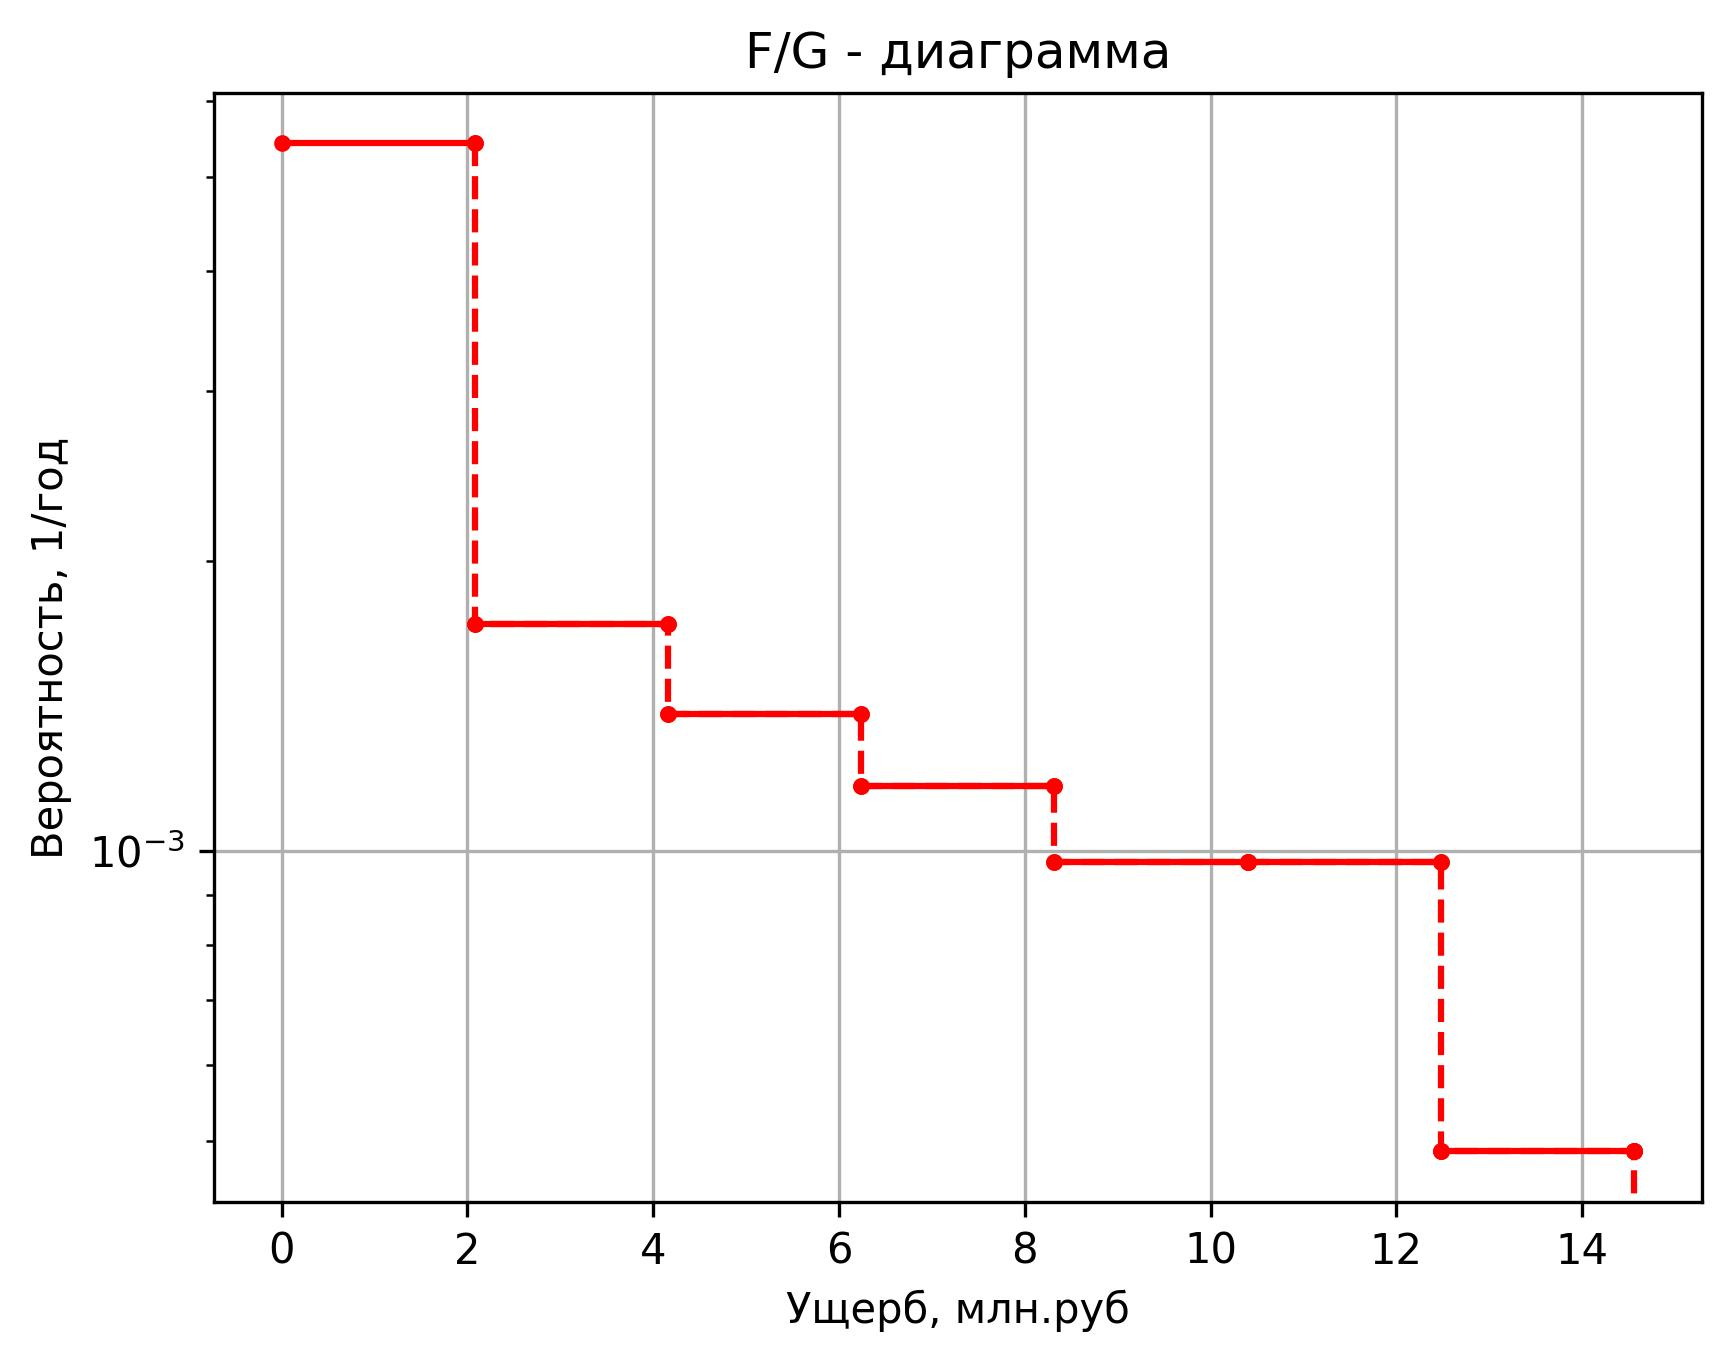
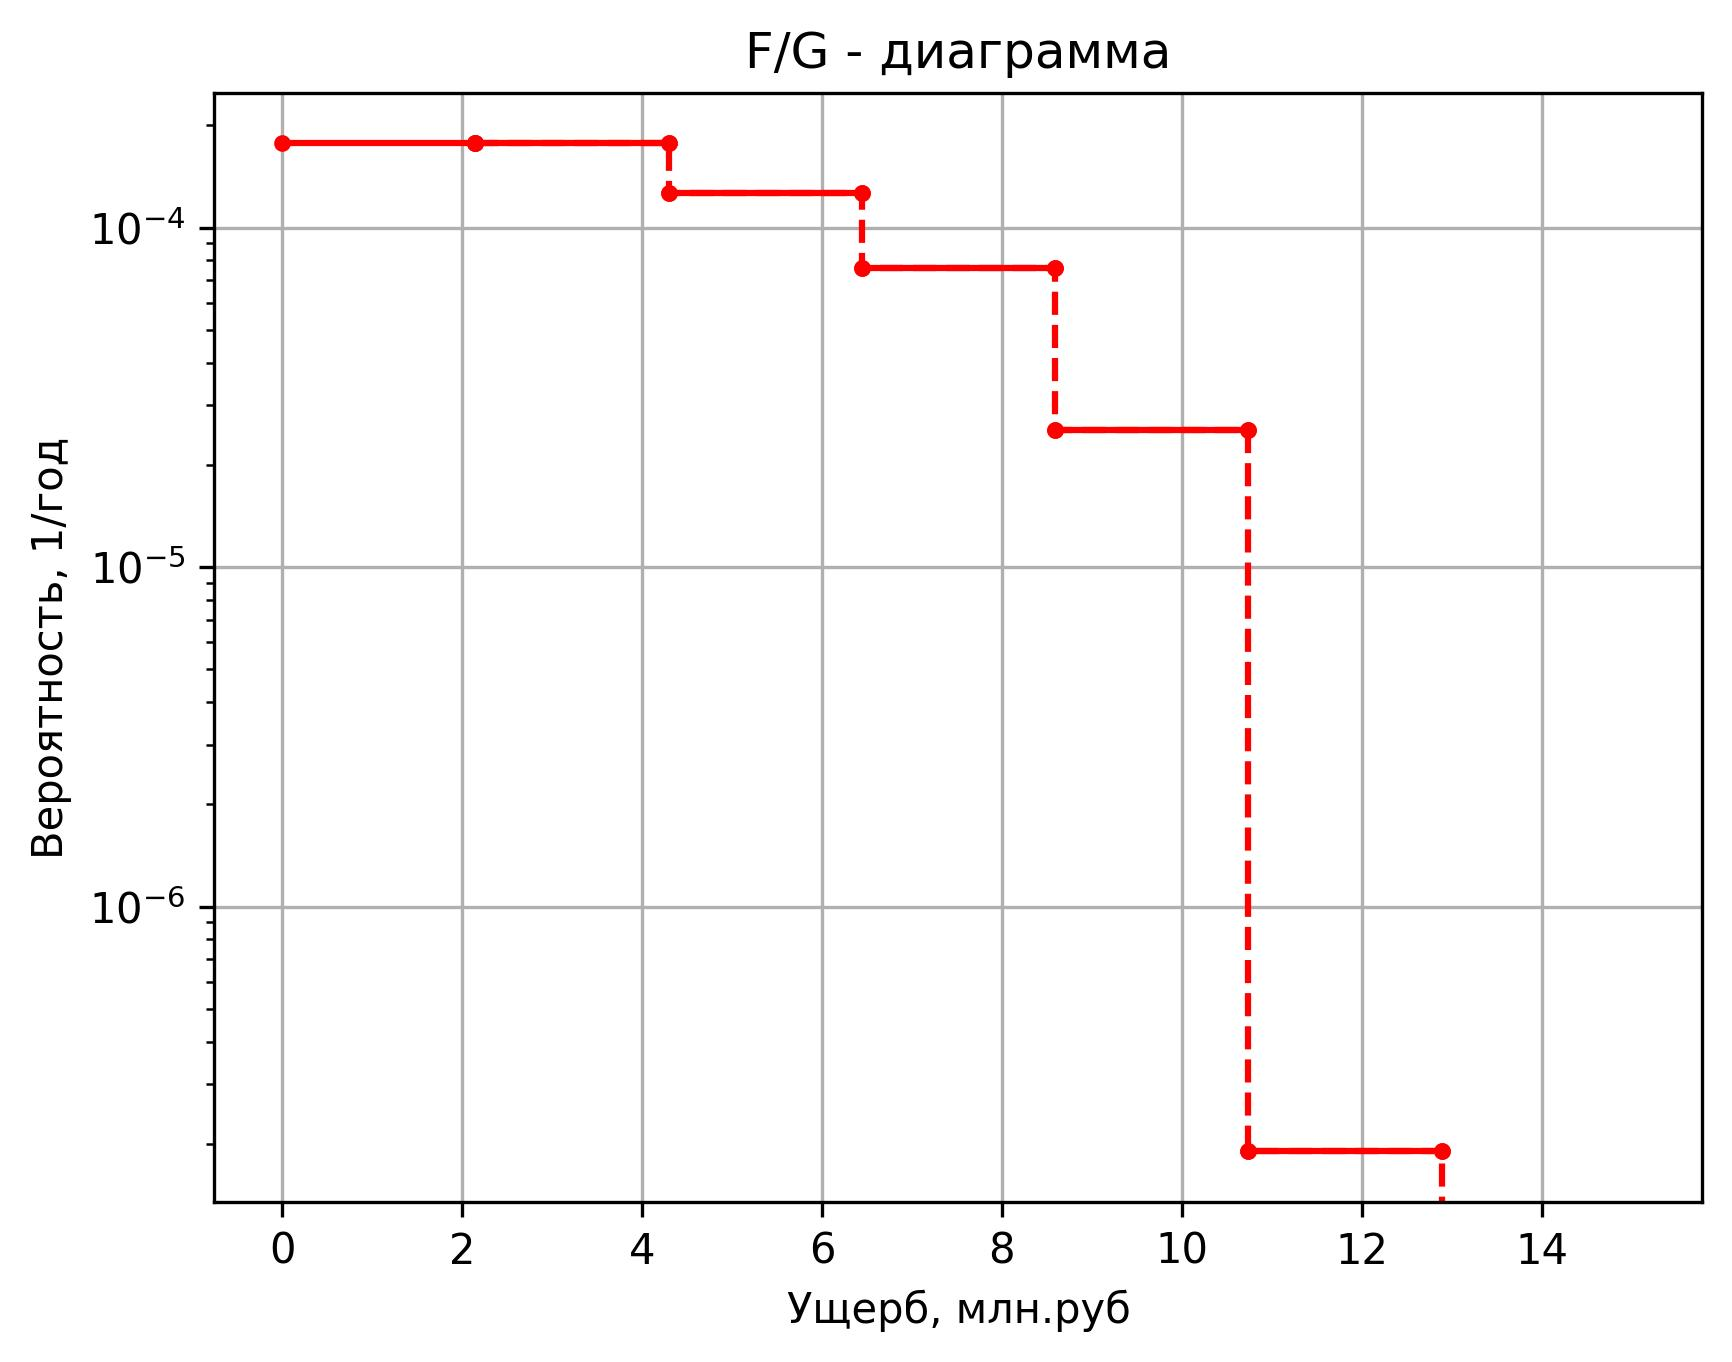
Шаблоны Оренбургнефть

diff --git a/config.py b/config.py
@@ -1,11 +1,12 @@
 import time
 
-DEGREE_OF_CLUTTER = 4 #степень загроможденности
+DEGREE_OF_CLUTTER = 3 #степень загроможденности
 # PATH_ = 'BASHNEFT/'
 # PATH_ = 'BASHNEFT_state_with_line/'
-PATH_ = 'BASHNEFT_with_line/'
+# PATH_ = 'BASHNEFT_with_line/'
 # PATH_ = 'SHESHMAOIL/'
 # PATH_ = 'TATNEFT/'
 # PATH_ = 'NPF/'
 # PATH_ = 'VECTORSTROY/'
+PATH_ = 'ORENBURGNEFT_state/'
 INIQ_TEXT = str(int(time.time()))
